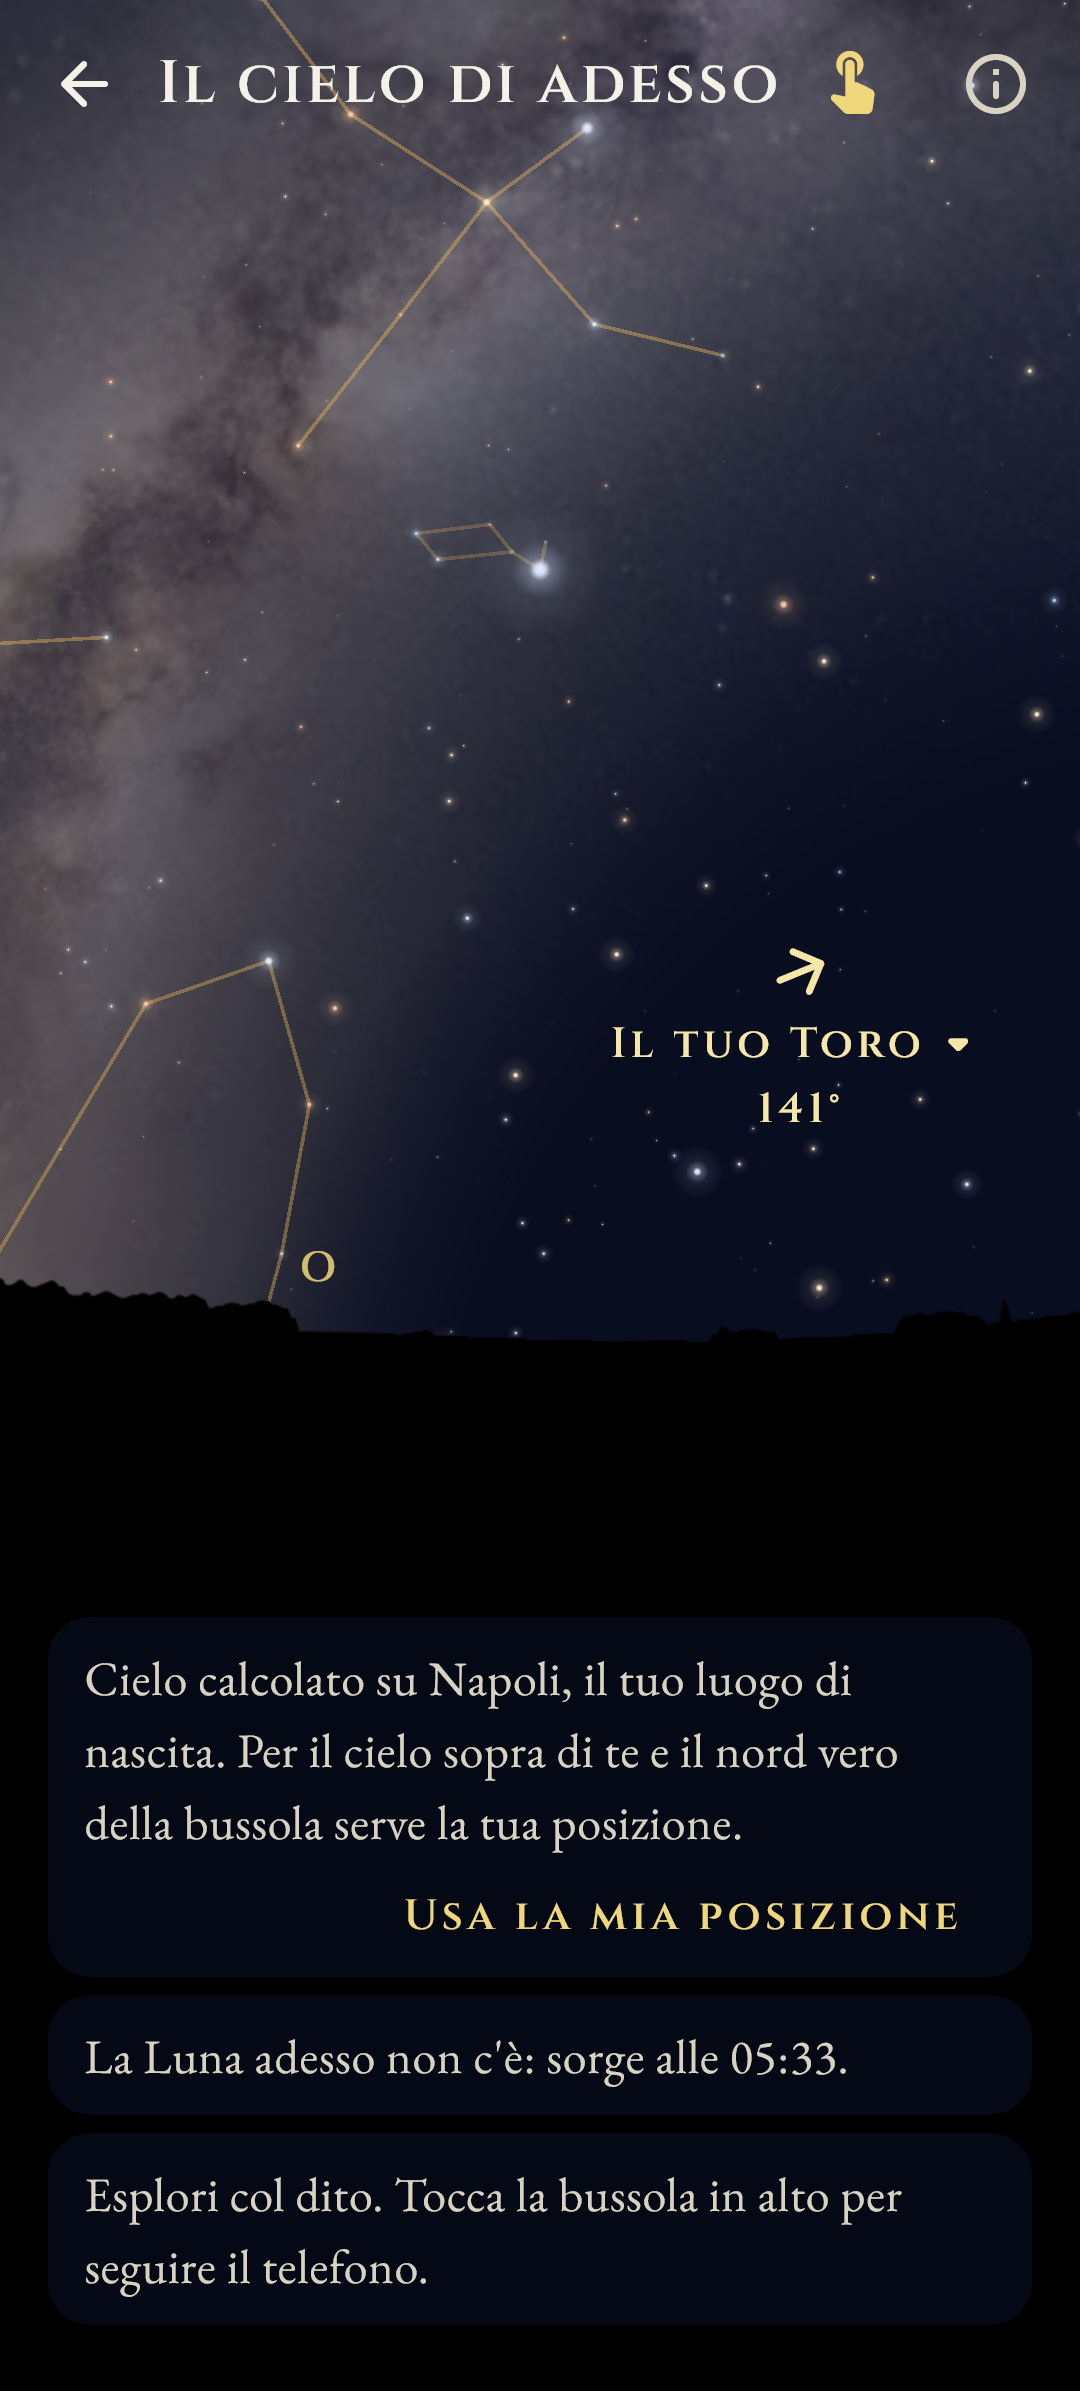
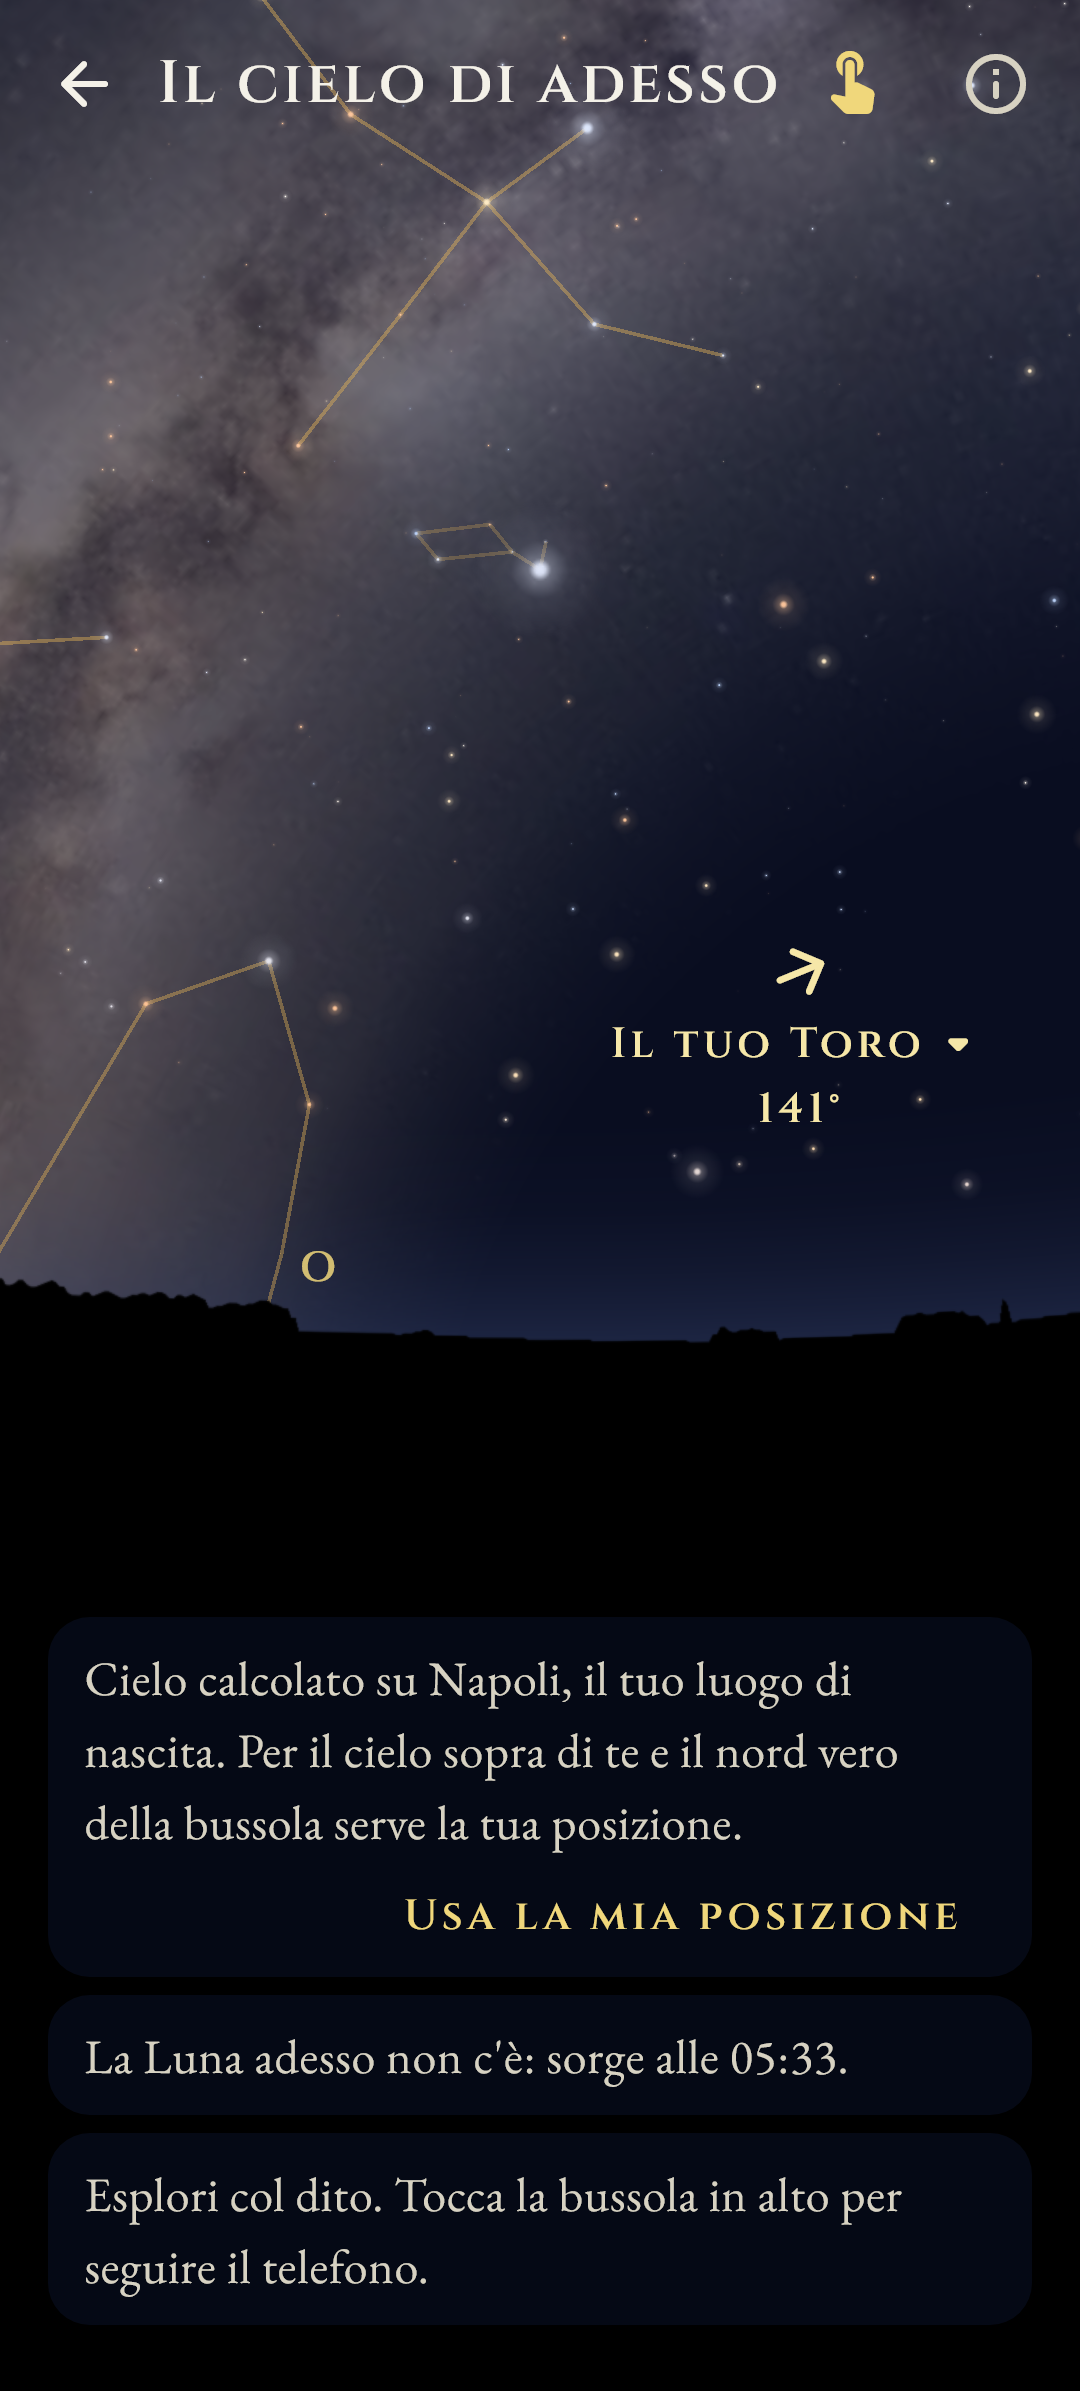
FH parte 11, l'aria fra noi e le stelle: estinzione, ambra, scintillio, alone dell'orizzonte.
- 11.1: la magnitudine di ogni stella cresce di 0,28 per la massa d'aria meno uno; la massa d'aria e' uno diviso il seno dell'altezza, limitata a 38. A trenta gradi sono 0,28 magnitudini, all'orizzonte 10,36. Sotto l'orizzonte, dove il cielo si vede attraverso il velo del terreno, la legge vale allo specchio, cosi' sulla linea non c'e' un gradino. Con la stessa legge il colore scivola verso l'ambra (255, 178, 110): e' a meta' a tre magnitudini di estinzione.
- 11.2: lo scintillio c'e' solo sotto i venti gradi. A diciannove e' appena percepibile, a due gradi arriva al massimo (0,45 della luce), col ritmo di due seni di frequenze vicine e fasi diverse per ogni stella. Con Riduci Movimento e' fermo.
- 11.3: l'alone dell'aria e' una fascia di vertici dell'orizzonte in scena, da zero a quindici gradi, nel colore 46, 58, 96, con la luce da 0,55 che si spegne salendo. Si proietta a ogni fotogramma con le altre maglie.

MISURA: l'estinzione ha abbassato la densita' a 70 gradi da 191, 194 e 211 a 143, 143 e 176, sotto il bersaglio di 158-218. La soglia non si tocca: si ritara il capo largo della magnitudine limite, che la FG aveva tarato su questa densita' senza aria. Con 4,75 i punti sono 170, 169 e 210; con 4,85 il nord sale a 228 ed esce.
[…]

Changed region(s): [[0.3056, 0.5261, 1.0, 0.588]]

diff --git a/lib/features/real_time_cosmo/lo_stile_del_cielo.dart b/lib/features/real_time_cosmo/lo_stile_del_cielo.dart
@@ -43,9 +43,12 @@ double raggioDellaStella(double magnitudine) {
 /// misurata in tre inquadrature, in
 /// `test/real_time_cosmo_la_densita_del_cielo_test.dart`. Il primo capo largo
 /// provato era 4,15, e la misura l'ha bocciato: 145, 149 e 151 punti, sotto
-/// il bersaglio. Con 4,55 sono 191, 194 e 211 (limite a settanta gradi 5,08).
+/// il bersaglio. Con 4,55 erano 191, 194 e 211 (limite a settanta gradi 5,08).
+/// Dall'ordine FH parte 11 le stelle basse perdono luce con l'estinzione, e
+/// con 4,55 i punti sono scesi a 143, 143 e 176: ritarato su 4,75, che da'
+/// 170, 169 e 210 (con 4,85 il nord sale a 228, fuori dal bersaglio).
 const double kLimiteCampoStretto = 6.0;
-const double kLimiteCampoLargo = 4.55;
+const double kLimiteCampoLargo = 4.75;
 
 /// La magnitudine limite al campo [campoGradi] (fra 18 e 100), lineare fra i
 /// due capi.
@@ -66,6 +69,56 @@ double luceDellaStella(double magnitudine, double limite) {
   if (d >= kSfumaturaDelLimite) return 1;
   return d / kSfumaturaDelLimite;
 }
+
+/// L'ARIA FRA NOI E LE STELLE (ordine FH parte 11).
+///
+/// **L'estinzione (voce 11.1).** Vicino all'orizzonte la luce di una stella
+/// attraversa piu' aria: la magnitudine apparente cresce di 0,28 per la massa
+/// d'aria meno uno. La massa d'aria e' uno diviso il seno dell'altezza,
+/// limitata a [kMassaDAriaMassima] verso l'orizzonte. Sotto l'orizzonte, dove
+/// il cielo si vede attraverso il velo del terreno, la legge si legge allo
+/// specchio, cosi' sulla linea dell'orizzonte non c'e' un gradino.
+const double kCoefficienteDiEstinzione = 0.28;
+const double kMassaDAriaMassima = 38;
+
+/// Di quante magnitudini si indebolisce una stella col seno dell'altezza [z].
+double estinzione(double z) {
+  final s = z.abs();
+  final massa = s <= 1 / kMassaDAriaMassima ? kMassaDAriaMassima : 1 / s;
+  return kCoefficienteDiEstinzione * (massa - 1);
+}
+
+/// L'ambra verso cui scivola il colore di una stella bassa.
+const Color kAmbraDellOrizzonte = Color.fromARGB(255, 255, 178, 110);
+
+/// Quanto del colore e' ambra, con la stessa legge (voce 11.1): niente in
+/// alto, la meta' a tre magnitudini di estinzione (circa sei gradi), quasi
+/// tutto verso l'orizzonte.
+double ambraDellaStella(double estinzioneInMagnitudini) {
+  final e = estinzioneInMagnitudini <= 0 ? 0.0 : estinzioneInMagnitudini;
+  return e / (e + 3);
+}
+
+/// LO SCINTILLIO (voce 11.2): solo sotto [kAltezzaDelloScintillio] gradi,
+/// appena percepibile li' e pieno a due gradi. Restituisce l'ampiezza
+/// dell'oscillazione della luce, da 0 a [kScintillioMassimo].
+const double kAltezzaDelloScintillio = 20;
+const double kScintillioMassimo = 0.45;
+
+double ampiezzaDelloScintillio(double altezzaGradi) {
+  if (altezzaGradi >= kAltezzaDelloScintillio || altezzaGradi <= -90) return 0;
+  final a = altezzaGradi.abs();
+  if (a <= 2) return kScintillioMassimo;
+  if (a >= kAltezzaDelloScintillio) return 0;
+  final t = (kAltezzaDelloScintillio - a) / (kAltezzaDelloScintillio - 2);
+  return kScintillioMassimo * t * t;
+}
+
+/// L'ALONE DELL'ARIA (voce 11.3): il fondo schiarisce appena verso
+/// l'orizzonte e si spegne a [kAltezzaDellAlone] gradi.
+const double kAltezzaDellAlone = 15;
+const Color kColoreDellAlone = Color.fromARGB(255, 46, 58, 96);
+const double kLuceDellAloneAllOrizzonte = 0.55;
 
 /// Sotto l'orizzonte il cielo si disegna INTERO (ordine FH voce 7.3): lo
 /// smorza il velo del terreno, con la sua opacita', e non un'attenuazione

diff --git a/lib/features/real_time_cosmo/la_scena_del_cielo.dart b/lib/features/real_time_cosmo/la_scena_del_cielo.dart
@@ -92,6 +92,21 @@ class ScenaDelCielo {
 
   final List<double> _punto = [0, 0];
 
+  static const double _gradi = 180 / math.pi;
+
+  /// Il seno di venti gradi: sopra non si scintilla.
+  static final double kSenoDelloScintillio =
+      math.sin(kAltezzaDelloScintillio * math.pi / 180);
+
+  static final int _ambraR = (kAmbraDellOrizzonte.r * 255).round();
+  static final int _ambraG = (kAmbraDellOrizzonte.g * 255).round();
+  static final int _ambraB = (kAmbraDellOrizzonte.b * 255).round();
+
+  static int _canale(int pieno, int ambra, double t) {
+    final c = pieno & 0xFF;
+    return (c + (ambra - c) * t).round().clamp(0, 255);
+  }
+
   /// Riempie i buffer per il cielo [cielo] (o, nel riavvolgimento, per il
   /// punto [t] fra [cielo] e [poi]) visto con [orientamento] e [proiezione].
   /// [spostamento] e' lo scostamento di parallasse del piano del cielo (parte
@@ -104,6 +119,8 @@ class ScenaDelCielo {
     required ProiezioneDelCielo proiezione,
     double spostamentoX = 0,
     double spostamentoY = 0,
+    double tempo = 0,
+    bool scintillio = true,
   }) {
     final limite = magnitudineLimite(proiezione.campoGradi);
     final w = proiezione.larghezza, h = proiezione.altezza;
@@ -138,16 +155,38 @@ class ScenaDelCielo {
           py > h + kMargineDelQuadro) {
         continue;
       }
-      var luce = luceDellaStella(m, limite);
+      // L'aria (ordine FH parte 11): la stella bassa e' piu' debole, piu'
+      // ambra e, sotto i venti gradi, scintilla.
+      final perdita = estinzione(z);
+      var luce = luceDellaStella(m + perdita, limite);
       if (z < 0) luce *= kLuceSottoLOrizzonte;
       if (luce <= 0) continue;
+      if (scintillio && z < kSenoDelloScintillio && z > -kSenoDelloScintillio) {
+        final ampiezza =
+            ampiezzaDelloScintillio(math.asin(z.clamp(-1.0, 1.0)) * _gradi);
+        if (ampiezza > 0) {
+          // Un ritmo irregolare e diverso per ogni stella: due seni di
+          // frequenze vicine e fasi prese dall'indice.
+          final f1 = 7.1 + (i % 7) * 0.9, f2 = 11.3 + (i % 5) * 1.3;
+          final o =
+              math.sin(tempo * f1 + i * 1.7) * math.sin(tempo * f2 + i * 0.6);
+          luce = (luce * (1 + ampiezza * o)).clamp(0.0, 1.0);
+        }
+      }
       final scala = _raggi[i] / kRaggioNelloSprite;
       final o = n * 4;
       trasformazioni[o] = scala;
       trasformazioni[o + 1] = 0;
       trasformazioni[o + 2] = px - kRaggioNelloSprite * scala;
       trasformazioni[o + 3] = py - kRaggioNelloSprite * scala;
-      colori[n] = ((luce * 255).round() << 24) | _coloriPieni[i];
+      final pieno = _coloriPieni[i];
+      final ambra = ambraDellaStella(perdita);
+      final colore = ambra < 0.01
+          ? pieno
+          : (_canale(pieno >> 16, _ambraR, ambra) << 16) |
+              (_canale(pieno >> 8, _ambraG, ambra) << 8) |
+              _canale(pieno, _ambraB, ambra);
+      colori[n] = ((luce * 255).round() << 24) | colore;
       xSchermo[n] = px;
       ySchermo[n] = py;
       inQuadro[n] = i;

diff --git a/lib/features/real_time_cosmo/l_orizzonte_in_scena.dart b/lib/features/real_time_cosmo/l_orizzonte_in_scena.dart
@@ -27,6 +27,7 @@ import 'dart:typed_data';
 import 'dart:ui' as ui;
 
 import '../../core/astro/real_time_cosmo/la_camera_del_cielo.dart';
+import 'lo_stile_del_cielo.dart';
 
 const double kPixelPerGrado = 4096 / 360;
 
@@ -57,6 +58,10 @@ class OrizzonteInScena {
     _colonne = colonne;
     final vf = colonne * (_fasciaAlt.length - 1) * 6;
     final vc = colonne * (_calottaAlt.length - 1) * 6;
+    final va = colonne * (_aloneAlt.length - 1) * 6;
+    alonePosizioni = Float32List(va * 2);
+    aloneColori = Int32List(va);
+    _aloneDir = Float32List(va * 3);
     fasciaPosizioni = Float32List(vf * 2);
     fasciaTessitura = Float32List(vf * 2);
     calottaPosizioni = Float32List(vc * 2);
@@ -65,6 +70,17 @@ class OrizzonteInScena {
     _calottaDir = Float32List(vc * 3);
     _riempi(_fasciaAlt, _fasciaDir, fasciaTessitura);
     _riempi(_calottaAlt, _calottaDir, null);
+    _riempi(_aloneAlt, _aloneDir, null);
+    // L'alone dell'aria (ordine FH voce 11.3): il colore dell'alone, con la
+    // luce che scende dall'orizzonte a zero a quindici gradi.
+    final c = kColoreDellAlone.toARGB32() & 0x00FFFFFF;
+    for (var i = 0; i < va; i++) {
+      final alt =
+          math.asin(_aloneDir[i * 3 + 2].clamp(-1.0, 1.0)) * 180 / math.pi;
+      final t = (1 - alt / kAltezzaDellAlone).clamp(0.0, 1.0);
+      final a = (kLuceDellAloneAllOrizzonte * t * t * 255).round();
+      aloneColori[i] = (a << 24) | c;
+    }
     for (var i = 0; i < vc; i++) {
       calottaColori[i] = 0xFF000000;
     }
@@ -88,6 +104,13 @@ class OrizzonteInScena {
 
   late final Float32List fasciaPosizioni, fasciaTessitura;
   late final Float32List calottaPosizioni;
+
+  /// L'alone dell'aria all'orizzonte (ordine FH voce 11.3).
+  late final Float32List alonePosizioni;
+  late final Int32List aloneColori;
+  late final Float32List _aloneDir;
+  final List<double> _aloneAlt = const [0, 2, 5, 9, kAltezzaDellAlone];
+  final ui.Paint pennelloDellAlone = ui.Paint();
   late final Int32List calottaColori;
   late final Float32List _fasciaDir, _calottaDir;
   final List<double> _fasciaAlt, _calottaAlt;
@@ -171,6 +194,7 @@ class OrizzonteInScena {
       {double spostamentoX = 0, double spostamentoY = 0}) {
     _proietta(_fasciaDir, fasciaPosizioni, o, p, spostamentoX, spostamentoY);
     _proietta(_calottaDir, calottaPosizioni, o, p, spostamentoX, spostamentoY);
+    _proietta(_aloneDir, alonePosizioni, o, p, spostamentoX, spostamentoY);
     opacita = opacitaDelTerreno(o.altezzaGradi);
     final colore = ((opacita * 255).round() << 24) & 0xFF000000;
     for (var i = 0; i < calottaColori.length; i++) {

diff --git a/test/real_time_cosmo_l_aria_test.dart b/test/real_time_cosmo_l_aria_test.dart
@@ -1,0 +1,56 @@
+// L'ARIA FRA NOI E LE STELLE. Ordine FH parte 11.
+//
+// 11.1: la magnitudine cresce di 0,28 per la massa d'aria meno uno, con la
+// massa d'aria limitata a 38; il colore scivola verso l'ambra con la stessa
+// legge. 11.2: lo scintillio c'e' solo sotto i venti gradi, appena li' e pieno
+// a due. 11.3: l'alone dell'aria si spegne entro i quindici gradi.
+
+import 'dart:math' as math;
+
+import 'package:esoteric_circle/features/real_time_cosmo/lo_stile_del_cielo.dart';
+import 'package:flutter_test/flutter_test.dart';
+
+double _seno(double gradi) => math.sin(gradi * math.pi / 180);
+
+void main() {
+  test('l\'estinzione segue la massa d\'aria', () {
+    expect(estinzione(1), closeTo(0, 1e-12));
+    // A trenta gradi la massa d'aria e' due: 0,28 magnitudini.
+    expect(estinzione(_seno(30)), closeTo(0.28, 1e-9));
+    // All'orizzonte la massa d'aria si ferma a 38: 0,28 per 37.
+    expect(estinzione(0), closeTo(0.28 * 37, 1e-9));
+    expect(estinzione(_seno(0.5)), closeTo(0.28 * 37, 1e-9));
+    // Allo specchio sotto l'orizzonte, senza gradino sulla linea.
+    expect(estinzione(-_seno(10)), closeTo(estinzione(_seno(10)), 1e-12));
+    // Cresce sempre scendendo.
+    var prima = -1.0;
+    for (var a = 90.0; a >= 1; a -= 1) {
+      final e = estinzione(_seno(a));
+      expect(e >= prima, isTrue, reason: '$a gradi');
+      prima = e;
+    }
+  });
+
+  test('il colore scivola verso l\'ambra con la stessa legge', () {
+    expect(ambraDellaStella(0), 0);
+    expect(ambraDellaStella(3), closeTo(0.5, 1e-12));
+    expect(ambraDellaStella(estinzione(_seno(30))), lessThan(0.1));
+    expect(ambraDellaStella(estinzione(0)), greaterThan(0.7));
+  });
+
+  test('lo scintillio solo sotto i venti gradi, pieno a due', () {
+    expect(ampiezzaDelloScintillio(20), 0);
+    expect(ampiezzaDelloScintillio(45), 0);
+    expect(ampiezzaDelloScintillio(2), kScintillioMassimo);
+    expect(ampiezzaDelloScintillio(0.5), kScintillioMassimo);
+    // A diciannove gradi appena percepibile.
+    expect(ampiezzaDelloScintillio(19), lessThan(0.01));
+    expect(ampiezzaDelloScintillio(10),
+        inExclusiveRange(0.01, kScintillioMassimo));
+  });
+
+  test('l\'alone dell\'aria si spegne entro i quindici gradi', () {
+    expect(kAltezzaDellAlone, 15);
+    expect(kLuceDellAloneAllOrizzonte, greaterThan(0));
+  });
+}

diff --git a/lib/features/real_time_cosmo/pittore_del_cielo.dart b/lib/features/real_time_cosmo/pittore_del_cielo.dart
@@ -163,6 +163,18 @@ class PittoreDelCielo extends CustomPainter {
       );
     }
 
+    // L'ALONE DELL'ARIA (ordine FH voce 11.3): il fondo schiarisce appena
+    // verso l'orizzonte, sotto le stelle.
+    final aria = f.orizzonte;
+    if (aria != null) {
+      canvas.drawVertices(
+        ui.Vertices.raw(ui.VertexMode.triangles, aria.alonePosizioni,
+            colors: aria.aloneColori),
+        BlendMode.dst,
+        aria.pennelloDellAlone,
+      );
+    }
+
     // LE LINEE DELLE FIGURE: una chiamata sola, sotto le stelle.
     final linee = f.linee;
     chiamateDelleLineeAllUltimoFotogramma = 0;

diff --git a/lib/features/real_time_cosmo/cielo_reale_screen.dart b/lib/features/real_time_cosmo/cielo_reale_screen.dart
@@ -819,6 +819,10 @@ class _CieloRealeScreenState extends State<CieloRealeScreen>
       proiezione: proiezione,
       spostamentoX: cieloSposta.dx,
       spostamentoY: cieloSposta.dy,
+      // Lo scintillio delle stelle basse (ordine FH voce 11.2), fermo con
+      // Riduci Movimento.
+      tempo: ora.inMicroseconds / 1e6,
+      scintillio: !_riduciMovimento,
     );
     _posaICorpi(a, b, proiezione, cieloSposta);
     _posaIVeli(a, b, proiezione, cieloSposta, veloSposta, dt);
